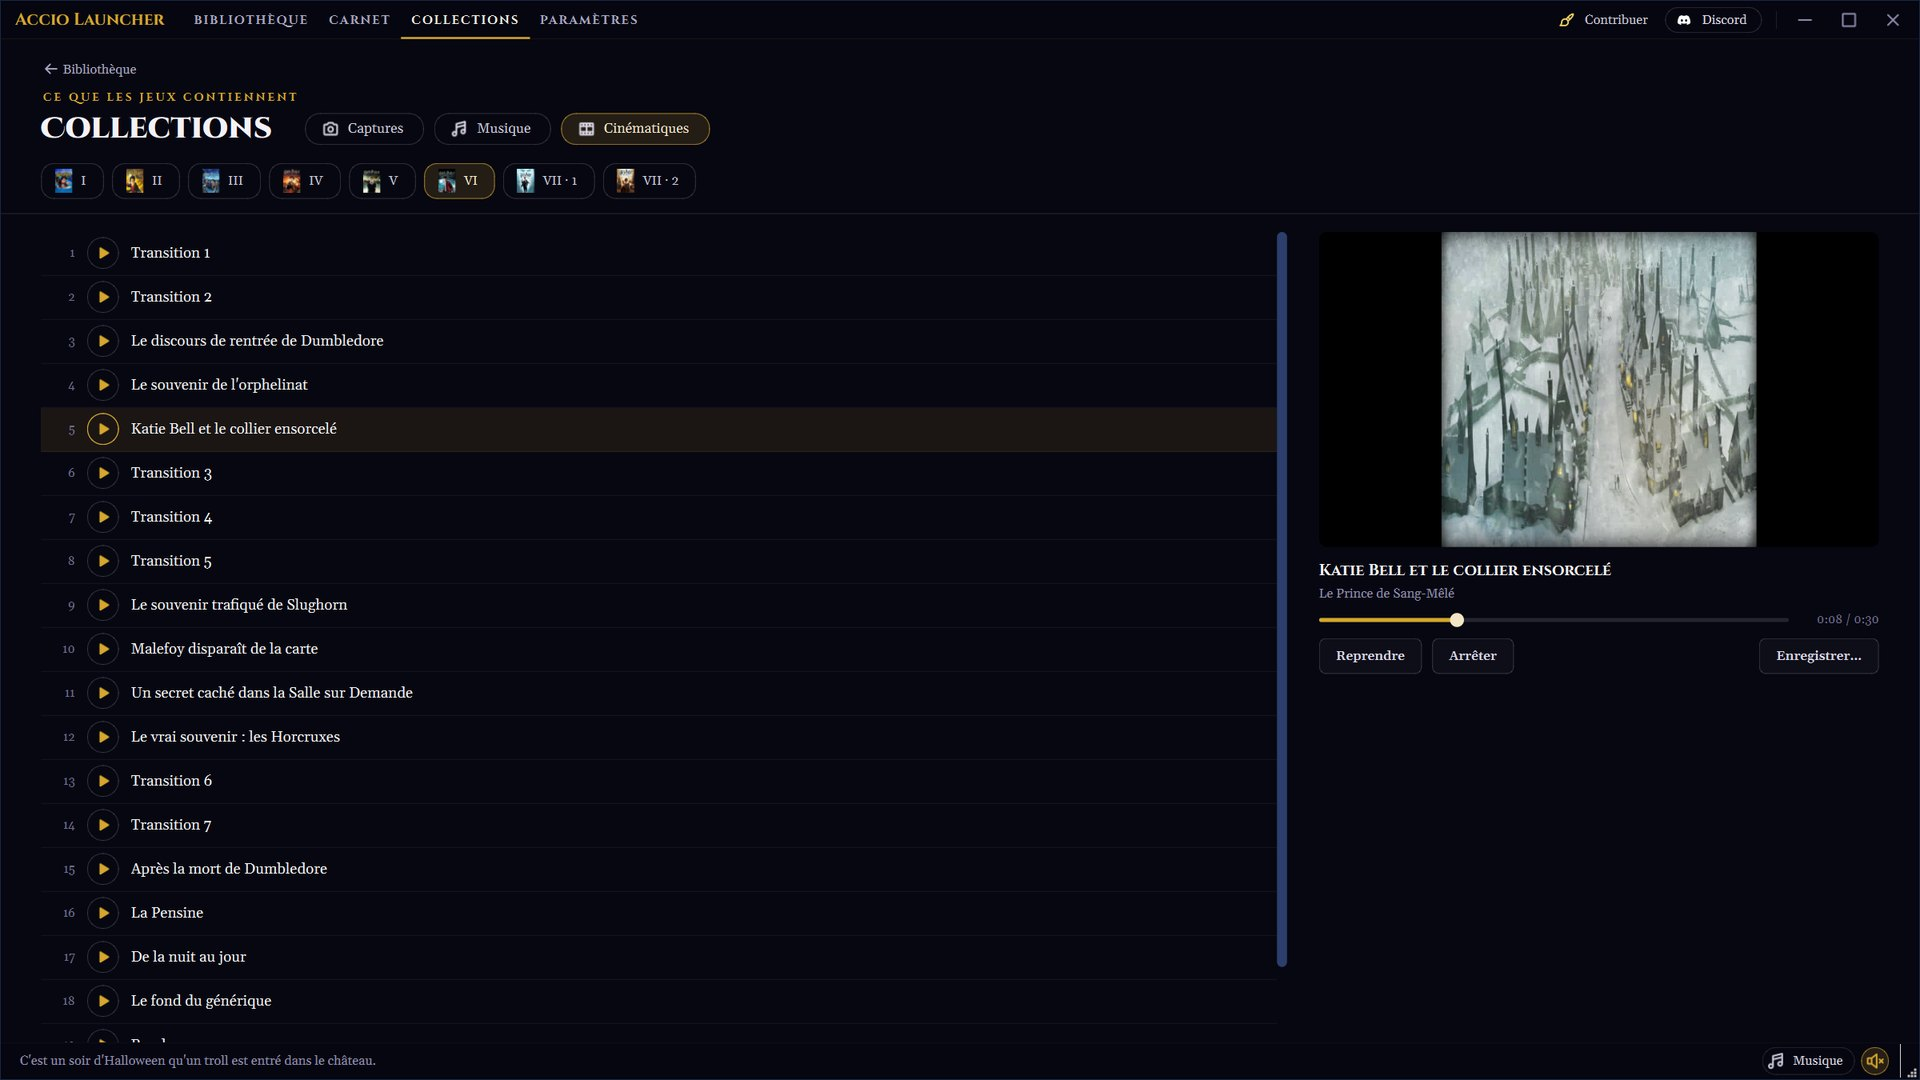
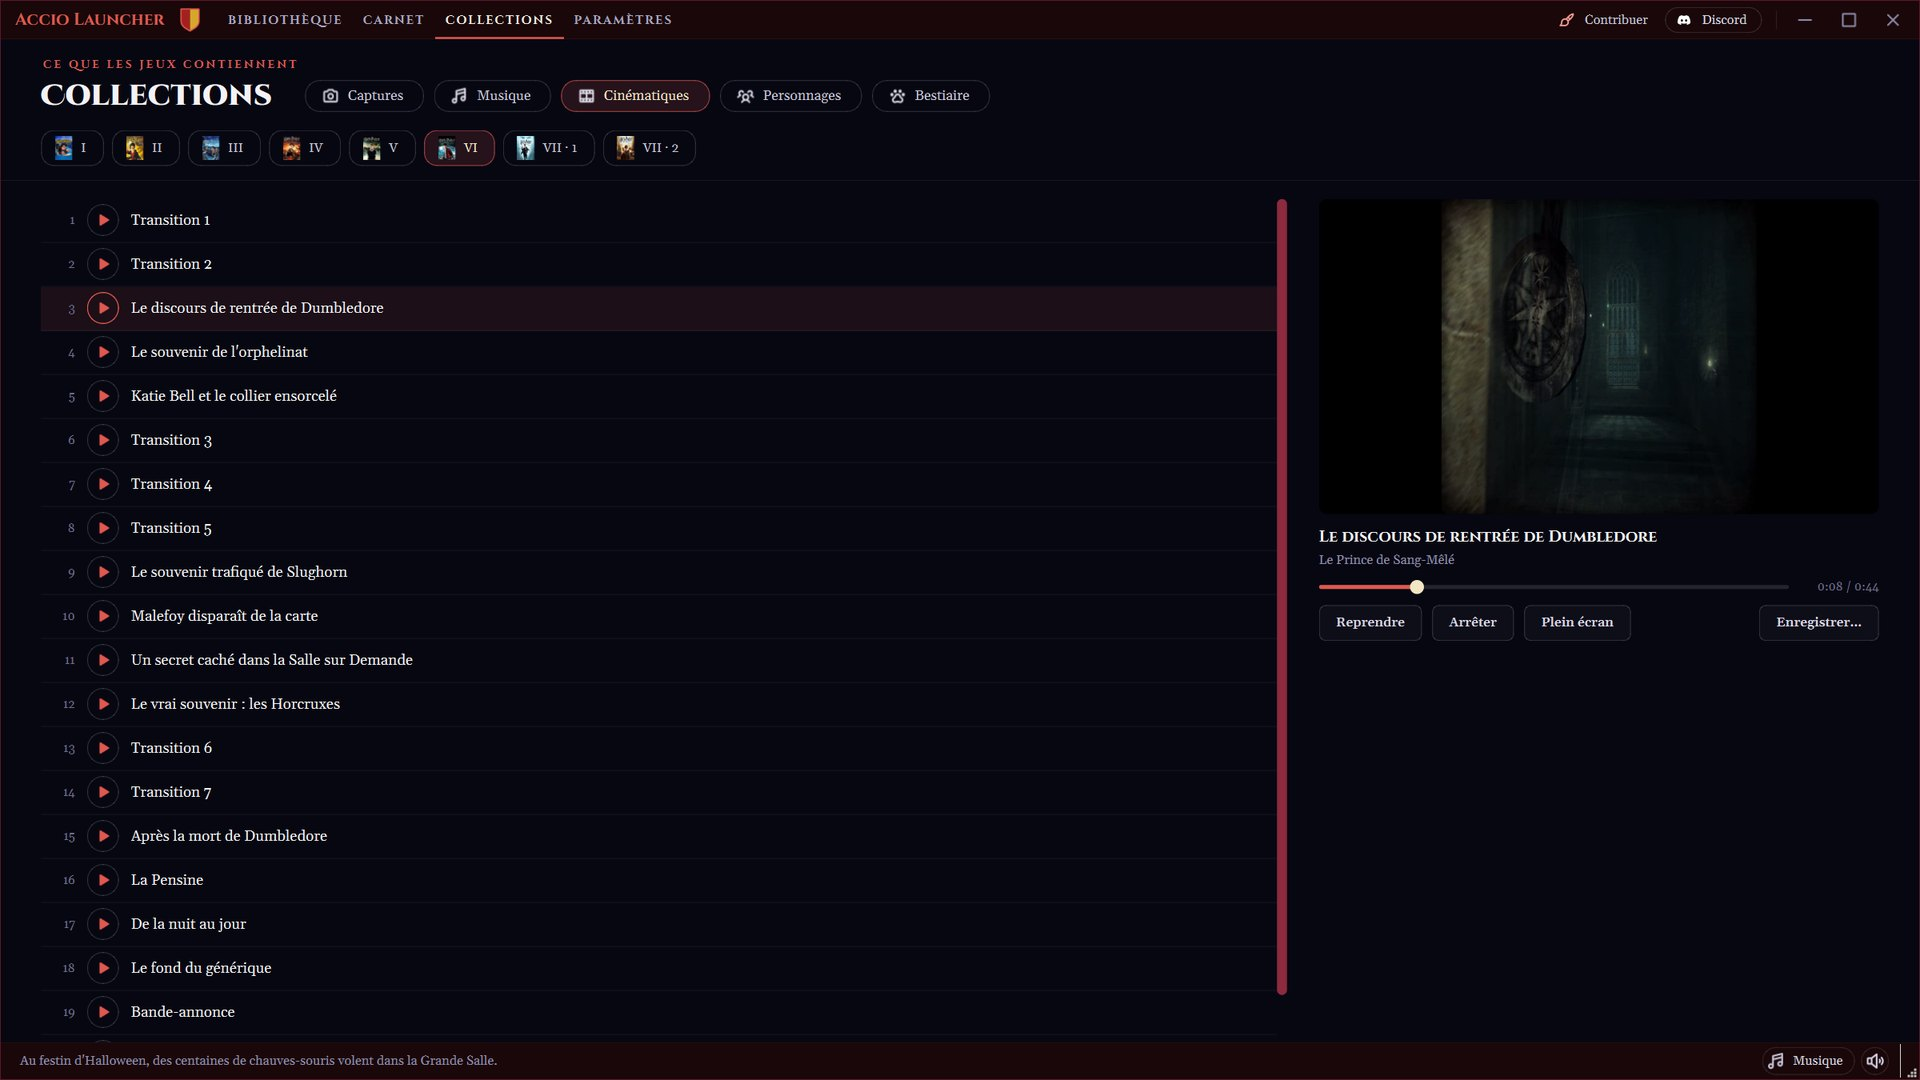
feat: Update README with new features and add character and challenge screenshots

diff --git a/README.md b/README.md
@@ -16,7 +16,7 @@
 
 ### [Télécharger Accio Launcher](https://github.com/ludvdber/AccioLauncher/releases/latest)
 
-Gratuit · Windows 10 et 11 · [Site](https://acciolauncher.be/) · [Discord](https://discord.gg/TNwDQd7KGe)
+Gratuit · Windows 10 et 11 · [Linux](#linux--bazzite) · [Site](https://acciolauncher.be/) · [Discord](https://discord.gg/TNwDQd7KGe)
 
 *Les jeux restent la propriété de Warner Bros. et d'Electronic Arts : pour y jouer
 légalement, il faut en posséder une copie originale (CD, DVD ou achat numérique).*
@@ -34,18 +34,19 @@ légalement, il faut en posséder une copie originale (CD, DVD ou achat numériq
 - **Tout se gère au même endroit**, depuis une barre en haut (Bibliothèque, Carnet, Collections, Paramètres) : mises à jour des jeux, réparation d'une installation abîmée, retour à une version précédente. Un jeu qui ne démarre plus après un changement dans ses options graphiques est reconnu à son retour, et retrouve sa configuration en un clic, sans rien retélécharger.
 - **Un plantage expliqué** : quand un jeu s'arrête brutalement, le launcher lit ce que Windows a noté et dit où chercher (pilote graphique, programme qui s'incruste, fichier du jeu, fichier retiré par l'antivirus), avec un détail à copier pour demander de l'aide.
 - **Les réglages graphiques de *Prisonnier d'Azkaban*** dans l'engrenage du jeu : anticrénelage, résolution de rendu, filtrage, synchronisation et limite d'images (jamais au-delà de 60), sans ouvrir un fichier au Bloc-notes.
-- **Vos sauvegardes à l'abri** : avant chaque partie, le launcher garde une copie de chaque sauvegarde qui a changé. Une partie abîmée par un plantage revient à sa version de la veille en deux clics.
+- **Vos sauvegardes à l'abri** : avant chaque partie, le launcher garde une copie de chaque sauvegarde qui a changé. Une partie abîmée par un plantage revient à sa version de la veille en deux clics. Une sauvegarde s'exporte aussi en .zip, pour la garder ou la reprendre sur un autre PC.
+- **Plus que le jeu d'origine**, réglable dans l'engrenage de chaque jeu : le texte de *l'École des Sorciers* et de *la Chambre des Secrets* redessiné à la taille de l'image, un ciel bleu ou à l'heure de votre ordinateur dans *le Prince de Sang-Mêlé*, et, en bêta, un mode difficile pour *l'Ordre du Phénix* et *le Prince de Sang-Mêlé* et un Quidditch plus difficile pour les deux premiers jeux.
 - **À la taille de votre écran** : *l'École des Sorciers* et *la Chambre des Secrets* s'ouvrent à la résolution de votre écran, 1440p et 4K compris, ou à celle que vous choisissez dans leurs réglages.
 - **Depuis le canapé** : le launcher se pilote entièrement à la manette — changer de jeu, lancer, régler, sans se lever pour la souris.
 - **Vos années à Poudlard** : le temps passé sur chaque jeu, le journal de vos parties, et la saga lue comme un relevé de scolarité, année par année (les deux parties des *Reliques de la Mort* partagent la septième).
 - **Un folio pour les huit jeux** : cartes de sorciers, dragées, points des maisons, sorts, boucliers, écussons et badges, lus directement dans vos sauvegardes et montrés avec les images et les icônes du jeu.
-- **Des succès tirés de vos sauvegardes**, de *l'École des Sorciers* au *Prince de Sang-Mêlé* : folio complet, armoire à trophées pleine, tous les écussons… Chacun repose sur ce que la sauvegarde prouve, il est daté à la partie où il tombe et annoncé au retour du jeu.
-- **Reprendre en un clic** : pour les trois premiers jeux, « Reprendre » ouvre votre dernière partie sans passer par les logos ni le menu (un réglage rend le menu du jeu).
-- **Une galerie de vos captures**, rangées par jeu dans vos Images (plus perdues à la désinstallation), à copier en un clic pour Discord.
+- **Des médailles tirées de vos sauvegardes**, dans l'onglet Défis du Carnet, de *l'École des Sorciers* au *Prince de Sang-Mêlé* : folio complet, armoire à trophées pleine, tous les écussons… Chacune repose sur ce que la sauvegarde prouve, elle est datée à la partie où elle tombe et annoncée au retour du jeu.
+- **Reprendre en un clic** : pour les trois premiers jeux, « Reprendre » ouvre votre dernière partie sans passer par les logos ni le menu (un réglage rend le menu du jeu). Un clic droit sur l'icône du launcher dans la barre des tâches lance vos derniers jeux.
+- **Les Collections** : vos captures, rangées par jeu dans vos Images et copiées en un clic pour Discord ; la musique et les cinématiques de vos jeux, avec leur son ; 186 fiches de personnages et de créatures, débloquées au fil de l'histoire, et ceux des deux premiers jeux en 3D, tels qu'ils sont dans votre jeu.
 - **Un atelier ouvert aux artistes** : le bouton « Contribuer » liste les jaquettes, fonds, bandes-annonces, cartes, écrans de chargement et vidéos qui cherchent quelqu'un pour les refaire. Vous dessinez, montez ou animez ? Tout ce qu'il faut savoir est dedans.
 - **Les réglages lisibles** : chaque réglage d'un jeu dit ce qu'il change et ce qu'il demande à la machine, et survit à une mise à jour ou à une réparation.
 - **Vos jeux déjà installés sont repris** : au premier lancement, le launcher retrouve ceux qui sont déjà sur le disque.
-- **Une ambiance soignée** : le Choixpeau vous répartit au premier lancement et propose le thème de votre maison ; l'**Almanach de Poudlard** habille le launcher au fil des mois — les lettres de Poudlard en septembre, les braises en octobre, la neige en décembre, les bougies en juillet — et glisse chaque jour un fait dans un coin. Bandes-annonces en fond, facultatives. Tout est désactivable.
+- **Une ambiance soignée** : le Choixpeau vous répartit au premier lancement et propose le thème de votre maison ; l'**Almanach de Poudlard** habille le launcher au fil des mois — les lettres de Poudlard en septembre, les braises en octobre, la neige en décembre, les bougies en juillet — et glisse chaque jour un fait dans un coin. Bandes-annonces en fond et musique des jeux, facultatives. Tout est désactivable.
 - **En français, en anglais et en espagnol**, et la langue des *Reliques de la Mort* se choisit jeu par jeu.
 - **Le launcher se met à jour tout seul**, en un clic, sans rien réinstaller.
 
@@ -163,6 +164,14 @@ environnement virtuel) produit `dist/AccioLauncher-x86_64.AppImage`.
   <tr>
     <td align="center"><sub>Le folio de chaque partie, lu dans votre sauvegarde</sub></td>
     <td align="center"><sub>Les Collections : musiques et cinématiques des jeux, avec leur son</sub></td>
+  </tr>
+  <tr>
+    <td width="50%"><img src="docs/screen_personnages.jpg" alt="Les personnages de l'École des Sorciers, avec Harry en 3D"></td>
+    <td width="50%"><img src="docs/screen_defis.jpg" alt="Les Défis du Carnet : les médailles du Prince de Sang-Mêlé"></td>
+  </tr>
+  <tr>
+    <td align="center"><sub>Personnages et Bestiaire, en 3D pour les deux premiers jeux</sub></td>
+    <td align="center"><sub>Défis : vos succès en médailles</sub></td>
   </tr>
 </table>
 
